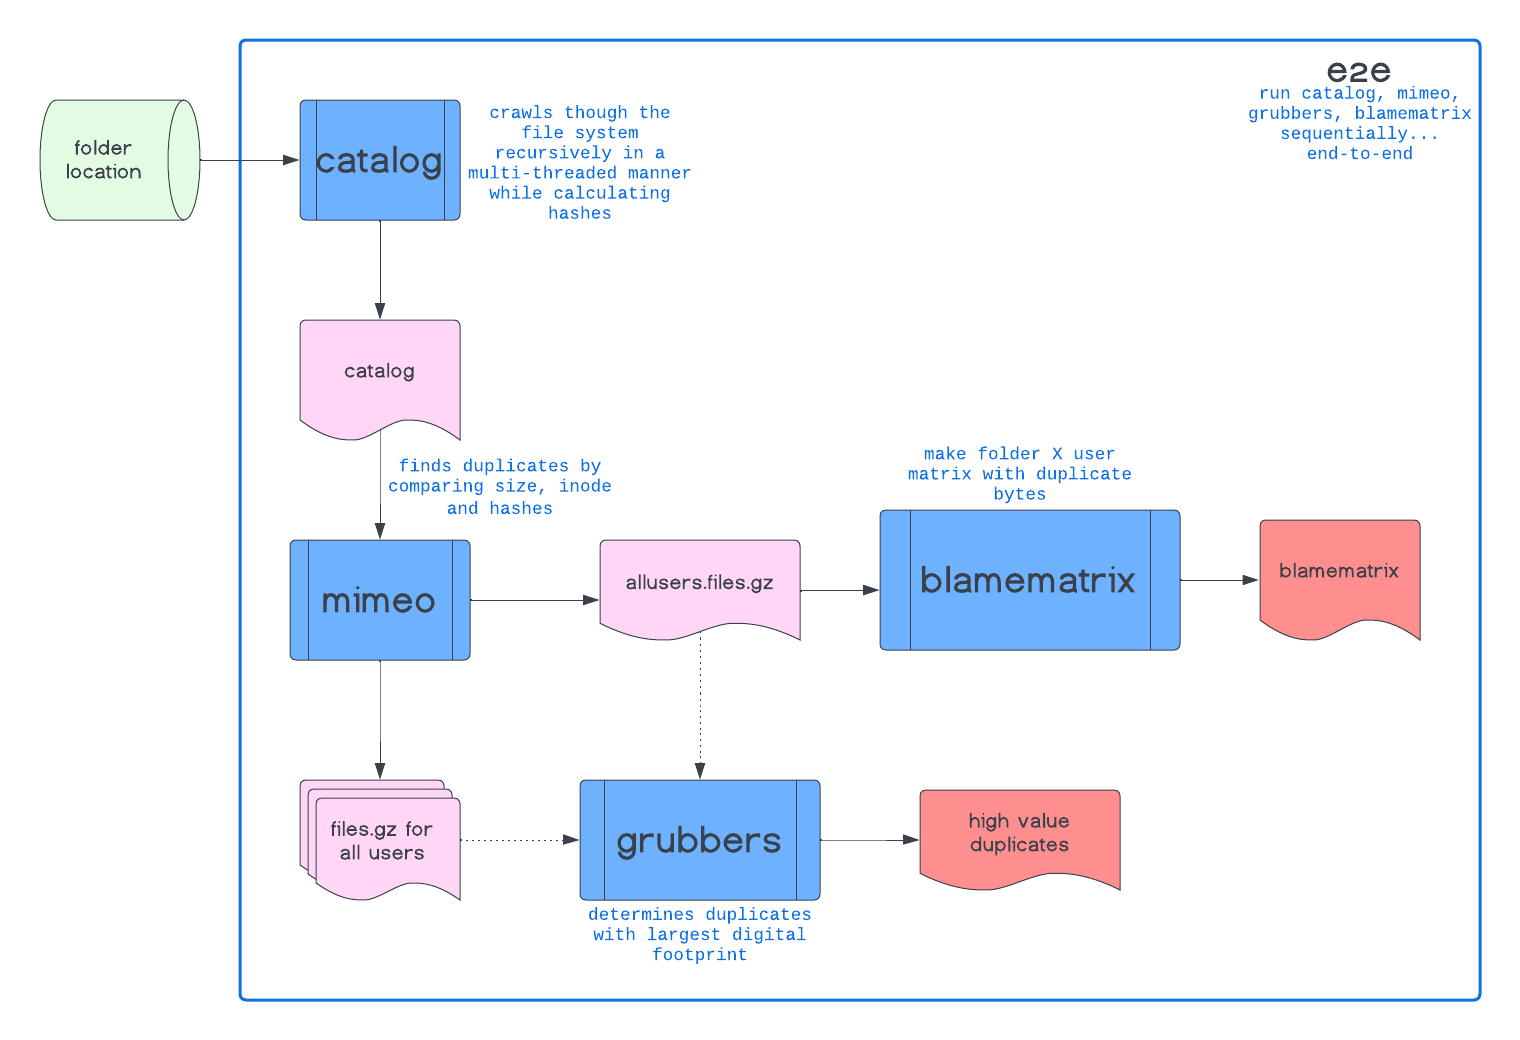
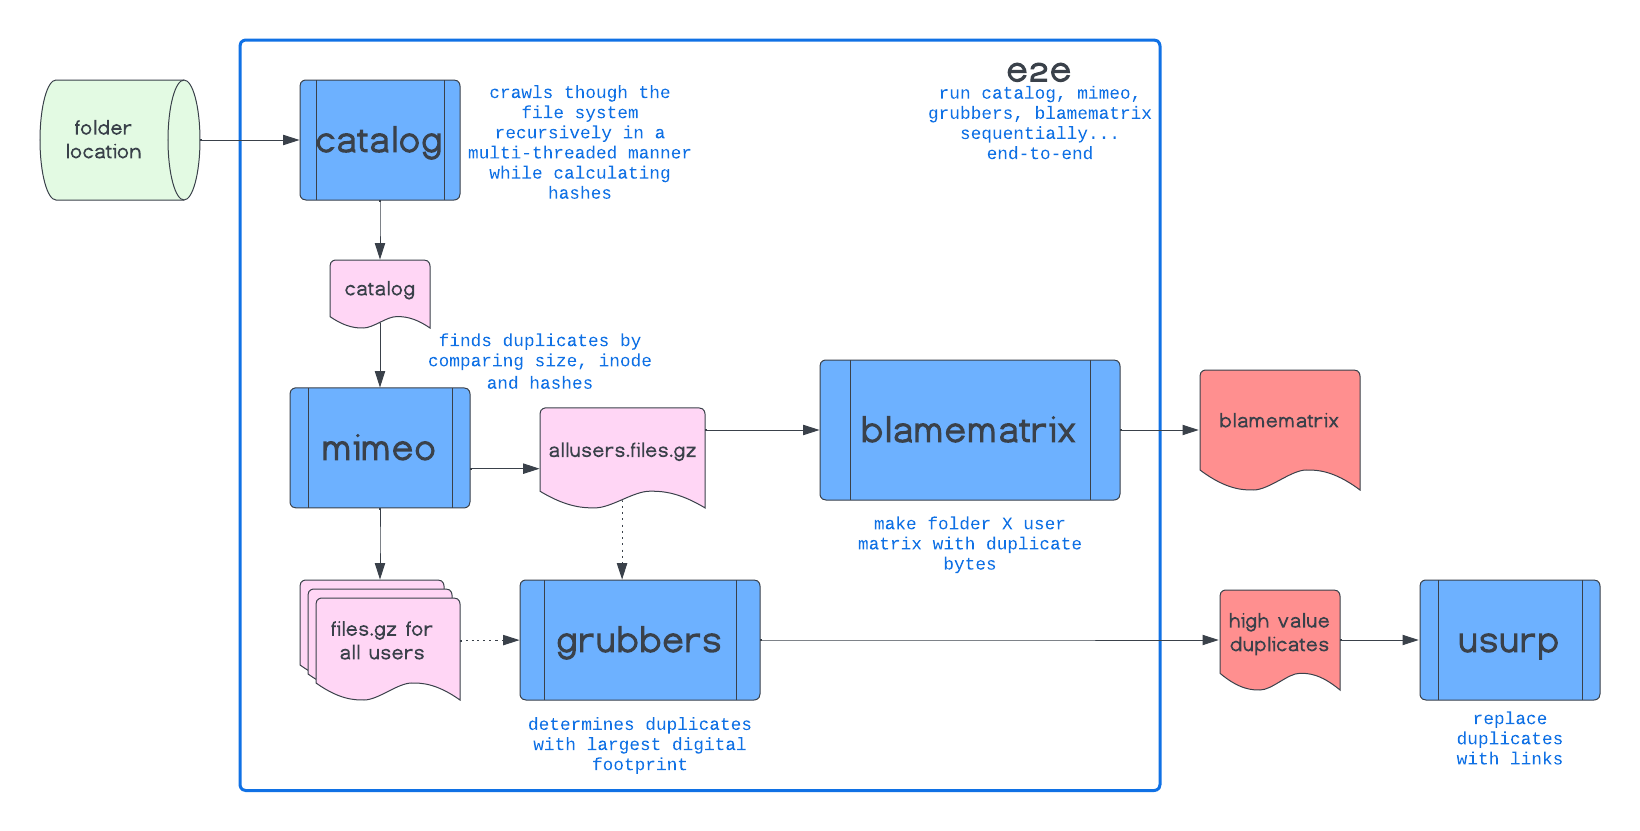
docs: updated docs

Changed region(s): [[0.0, 0.0602, 0.9895, 0.9627], [0.1546, 0.0301, 0.9895, 0.2106]]

diff --git a/README.md b/README.md
@@ -1,17 +1,18 @@
 # :rocket: spacesavers2 :rocket:
 
 ## Table of Contents:
- - [Background](#background)
- - [Basic Commands](##spacesavers2-has-the-following-basic-commands)
- - [Flow Diagram](#spacesavers2-typical-workflow-looks-like-this)
- - [Detailed Documentation](https://ccbr.github.io/spacesavers2)
+
+- [Background](#background)
+- [Basic Commands](##spacesavers2-has-the-following-basic-commands)
+- [Flow Diagram](#spacesavers2-typical-workflow-looks-like-this)
+- [Detailed Documentation](https://ccbr.github.io/spacesavers2)
 
 ## Background
 
-Welcome! `spacesavers2`: 
+Welcome! `spacesavers2`:
 
-- crawls through the provided folder (and its subfolders), 
-- gathers stats for each file like size, inode, user/group information, etc., 
+- crawls through the provided folder (and its subfolders),
+- gathers stats for each file like size, inode, user/group information, etc.,
 - calculates unique hashes for each file,
 - using the information gathers determines "duplicates",
 - reports "high-value" duplicates, i.e., the ones that will give back most diskspace, if deleted,and
@@ -19,11 +20,13 @@ Welcome! `spacesavers2`:
 
 > New improved parallel implementation of [`spacesavers`](https://github.com/CCBR/spacesavers). `spacesavers` is soon to be decommissioned!
 
-> Note: `spacesavers2` requires [python version 3.11](https://www.python.org/downloads/release/python-3110/) or later and the [xxhash](https://pypi.org/project/xxhash/) library. These dependencies are already installed on biowulf (as a conda env). The enviroment for running `spacesavers2` can get set up using:
+> Note: `spacesavers2` requires [python version 3.11](https://www.python.org/downloads/release/python-3110/) or later and the [xxhash](https://pypi.org/project/xxhash/) library. These dependencies are already installed on biowulf (as a conda env). The environment for running `spacesavers2` can get set up using:
+>
 > ```bash
 > . "/data/CCBR_Pipeliner/db/PipeDB/Conda/etc/profile.d/conda.sh" && \
 > conda activate py311
 > ```
+
 ## `spacesavers2` has the following Basic commands:
 
 - spacesavers2_catalog
@@ -31,6 +34,7 @@ Welcome! `spacesavers2`:
 - spacesavers2_grubbers
 - spacesavers2_blamematrix
 - spacesavers2_e2e
+- spacesavers2_usurp
 
 ## `spacesavers2` typical workflow looks like this:
 

diff --git a/docs/usurp.md b/docs/usurp.md
@@ -1,0 +1,38 @@
+## spacesavers2_usurp
+
+This takes in the TSV file generated by `spacesavers2_grubbers` and a hash from its first column to:
+
+- find the row corresponding to the hash
+- keep one copy as of the duplicates as "original copy"
+- delete other copies and replace them with hard (or soft) links
+
+Deleting these high-value duplicates has the biggest impact on the users overall digital footprint.
+
+### Inputs
+
+- `--grubber` output file from `spacesavers2_grubbers`.
+- `--hash` a hash from its first column of the grubber TSV.
+- `--force` (OPTIONAL) if the duplicates are cross-device then hard links cannot be made, with `--force` you can force using sym-links instead.
+
+```bash
+usage: spacesavers2_usurp [-h] -g GRUBBER -x HASH [-f | --force | --no-force]
+
+spacesavers2_usurp: delete all but one copy of the file matching the hash and replace all other copies with hardlinks
+
+options:
+  -h, --help            show this help message and exit
+  -g GRUBBER, --grubber GRUBBER
+                        spacesavers2_grubbers output TSV file
+  -x HASH, --hash HASH  hash (or unique partial hash) from column 1 of spacesavers2_grubbers TSV file
+  -f, --force, --no-force
+                        forcefully create symlink if hardlink is not possible
+
+Version:
+    v0.8
+Example:
+    > spacesavers2_usurp -g grubbers.TSV -h someHash
+```
+
+### Outputs
+
+On screen confirmation that the duplicates are replaced with hard (or soft) links.

diff --git a/docs/blamematrix.md b/docs/blamematrix.md
@@ -6,7 +6,7 @@ This takes in the `allusers.files.gz` generated by `spacesavers2_mimeo` and proc
 - usernames as column-names
 - duplicate bytes as values in the matrix
 
-Deleting these high-value duplicates first will have the biggest impact on the users overall digital footprint
+Deleting these high-value duplicates first will have the biggest impact on the users overall digital footprint.
 
 ### Inputs
 
